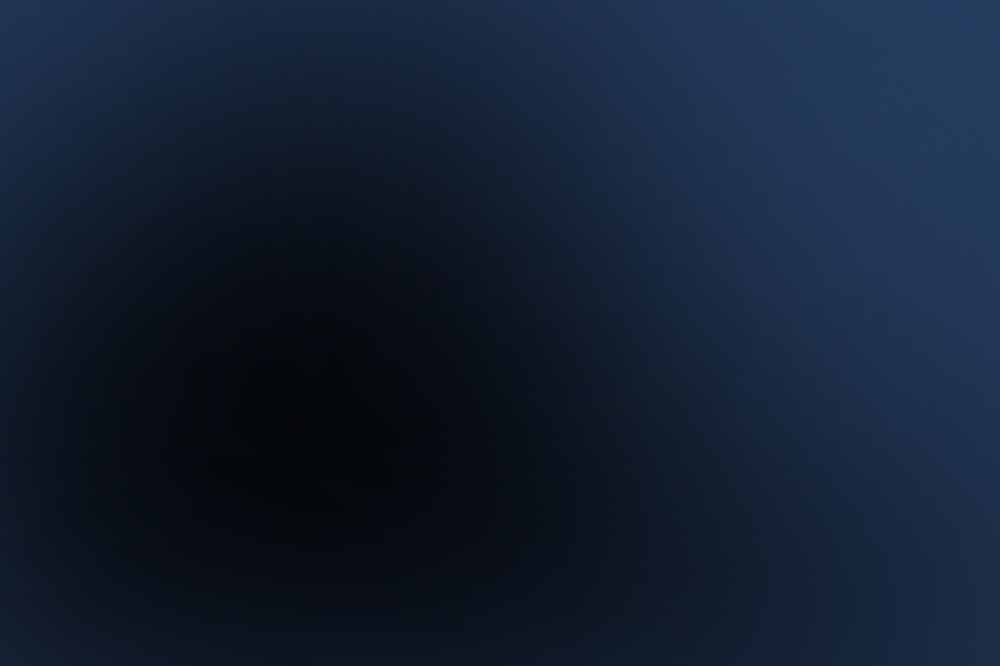
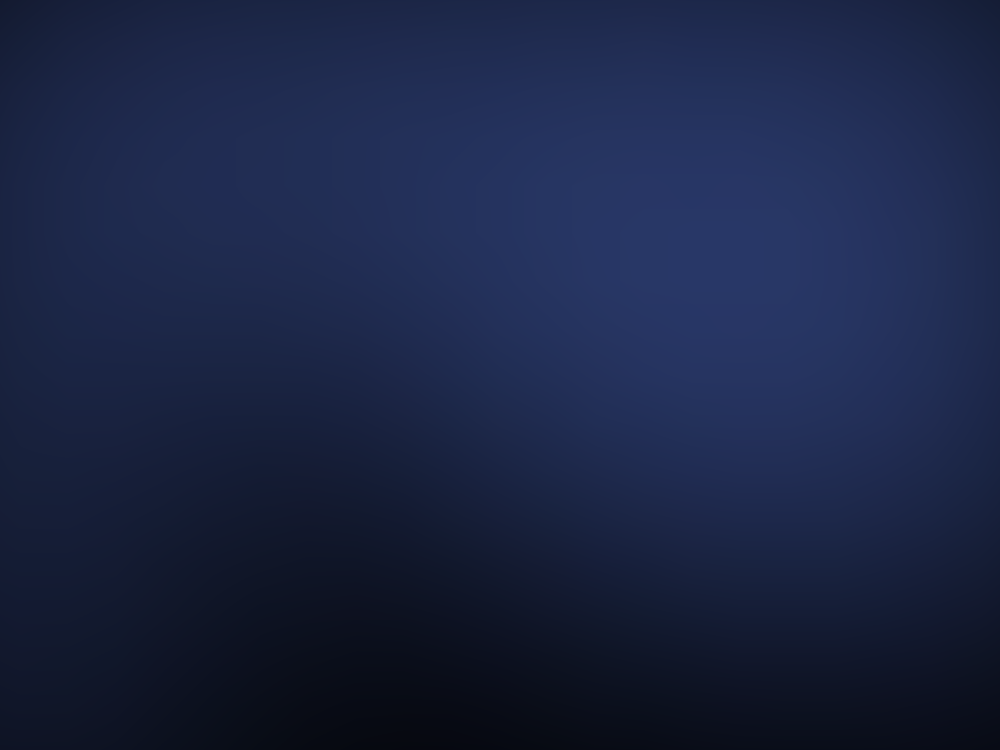
background

diff --git a/style.css b/style.css
@@ -9,8 +9,7 @@
 width: 100;
 height: 100vh;
 background-image: url(Images/blurry-gradient-haikei.png);
-background-size: 100% 100%; 
-background-repeat: no-repeat;
+background-size: 100vh;
 }
 
 
